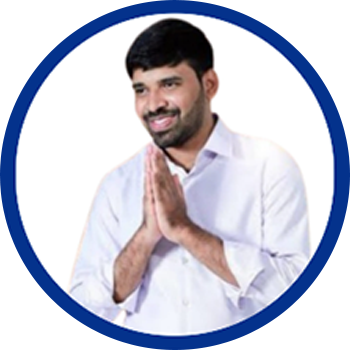
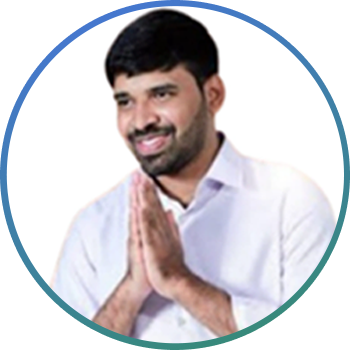
login ui changes, charts

diff --git a/src/pages/LoginPage.js b/src/pages/LoginPage.js
@@ -1,6 +1,6 @@
 import { styled } from "@mui/material/styles";
 import { makeStyles } from "@mui/styles";
-import { Link, Container, Typography, Divider, Box, Button, Card, Grid } from "@mui/material";
+import { Link, Container, Typography, Divider, Box, Button, Card, Grid, Stack } from "@mui/material";
 import { LoginForm } from "../sections/auth/login";
 import Page from "../components/Page";
 import { PUBLIC_URL } from "../constants";
@@ -17,12 +17,12 @@ const StyledContent = styled("div")(({ theme }) => ({
   display: "flex",
   justifyContent: "center",
   flexDirection: "column",
-  padding: theme.spacing(6, 6),
+  padding: theme.spacing(6, 1),
   [theme.breakpoints.up("md")]: {
     padding: theme.spacing(3, 9),
   },
   [theme.breakpoints.up("lg")]: {
-    padding: theme.spacing(6, 9),
+    padding: theme.spacing(6, 6),
   },
   [theme.breakpoints.up("xl")]: {
     padding: theme.spacing(6, 16),
@@ -61,47 +61,47 @@ const LoginPage = () => {
           <Card className={classes.subContainer} sx={{ p: { xs: 2, sm: 3, md: 4, xl: 5 } }}>
             <Grid container spacing={2} sx={{ alignItems: "center" }}>
               {isDesktop && (
-                <Grid item md={12} lg={2.5}>
-                  <Box component="img" src={PUBLIC_URL + "/static/images/map.png"} sx={{ width: "100%" }} />
+                <Grid item md={12} lg={3} sx={{ display: "flex", flexDirection: "column", alignItems: "center" }}>
+                  <Box component="img" src={PUBLIC_URL + "/static/images/map.png"} sx={{ width: "100%", maxWidth: 400 }} />
 
-                  <Typography variant="h5" sx={{ mt: 3, textAlign: "center" }}>
+                  <Typography variant="body2" fontWeight="bold" sx={{ mt: 3, textAlign: "center" }}>
                     CHANDRAGIRI CONSTITUENCY
                   </Typography>
                 </Grid>
               )}
 
               {isDesktop && (
-                <Grid item md={12} lg={3.5}>
-                  <Box component="img" src={PUBLIC_URL + "/static/images/mohith.png"} sx={{ width: "100%" }} />
+                <Grid item md={12} lg={3} sx={{ display: "flex", flexDirection: "column", alignItems: "center" }}>
+                  <Box component="img" src={PUBLIC_URL + "/static/images/mohith.png"} sx={{ width: "100%", maxWidth: 400 }} />
 
-                  <Typography variant="h5" sx={{ mt: 3, textAlign: "center" }}>
+                  <Typography variant="body2" fontWeight="bold" sx={{ mt: 3, textAlign: "center" }}>
                     CHEVIREDDY MOHITH REDDY
                   </Typography>
 
-                  <Typography variant="subtitle2" sx={{ textAlign: "center" }}>
+                  <Typography variant="body2" sx={{ textAlign: "center", fontSize: 10 }}>
                     (TUDA CHAIRMAN & TTD BOARD MEMBER)
                   </Typography>
                 </Grid>
               )}
 
               <Grid item xs={12} md={12} lg={6}>
-                <Box sx={{ pb: 2, display: "flex", justifyContent: "end" }}>
-                  <Box className={classes.linearAvatar} component="img" src={PUBLIC_URL + "/static/images/crbr.jpg"} sx={{ width: 100, height: 100, mr: 2 }} />
+                <Stack direction="row" spacing={1} sx={{ pb: 2, justifyContent: "end" }}>
+                  <Box component="img" src={PUBLIC_URL + "/static/images/imgs-1.png"} sx={{ width: 80, height: 80 }} />
 
-                  <Box className={classes.linearAvatar} component="img" src={PUBLIC_URL + "/static/images/jagan.jpg"} sx={{ width: 100, height: 100 }} />
-                </Box>
+                  <Box component="img" src={PUBLIC_URL + "/static/images/imgs-2.png"} sx={{ width: 80, height: 80 }} />
 
-                <Container maxWidth="sm">
-                  <Card className={classes.card} elevation={24} sx={{ p: { xs: 2, sm: 3, md: 4, xl: 5 } }}>
-                    <Box sx={{ pb: 1, display: "flex", justifyContent: "center" }}>
+                  <Box component="img" src={PUBLIC_URL + "/static/images/imgs-3.png"} sx={{ width: 80, height: 80 }} />
+                </Stack>
+
+                <Container maxWidth="xs" disableGutters>
+                  <Card className={classes.card} sx={{ p: { xs: 2, sm: 3, md: 4 } }}>
+                    <Box sx={{ display: "flex", justifyContent: "center" }}>
                       <Box component="img" src={PUBLIC_URL + "/static/assets/users.png"} sx={{ width: 80, height: 80 }} />
                     </Box>
 
-                    <Typography variant="h4" gutterBottom>
-                      Login
-                    </Typography>
+                    <Typography variant="h4">Login</Typography>
 
-                    <Typography sx={{ color: "text.secondary", mb: 5 }}>Enter your credentials to continue</Typography>
+                    <Typography sx={{ color: "text.secondary", mb: 4 }}>Enter your credentials to continue</Typography>
 
                     <LoginForm />
                   </Card>

diff --git a/src/pages/DashboardPage.js b/src/pages/DashboardPage.js
@@ -1,4 +1,5 @@
 import { useEffect, useState } from "react";
+import { useTheme } from "@mui/material/styles";
 import { Grid, Container, Typography, Box, TextField, Card } from "@mui/material";
 import Page from "../components/Page";
 import { connect } from "react-redux";
@@ -7,6 +8,8 @@ import { PieChartWidget } from "../sections/dashboard";
 import BarChartWidget from "../sections/dashboard/BarChartWidget";
 
 const DashboardApp = ({ dashboard }) => {
+  const theme = useTheme();
+
   return (
     <Page title="Dashboard">
       <Container maxWidth="xl">
@@ -55,10 +58,11 @@ const DashboardApp = ({ dashboard }) => {
             <PieChartWidget
               title="Total Voters"
               chartData={[
-                { label: "Male", value: 4344 },
+                { label: "Male", value: 5428 },
                 { label: "Female", value: 5435 },
-                { label: "Transgender", value: 1443 },
+                { label: "Transgender", value: 895 },
               ]}
+              chartColors={[theme.palette.success.main, theme.palette.primary.main, theme.palette.error.main]}
             />
           </Grid>
 
@@ -73,6 +77,7 @@ const DashboardApp = ({ dashboard }) => {
                 { label: "BJP", value: 1443 },
                 { label: "CONGRESS", value: 1443 },
               ]}
+              chartColors={[theme.palette.success.main, theme.palette.primary.main, theme.palette.warning.main, theme.palette.error.main, "#f78000", theme.palette.info.main]}
             />
           </Grid>
 
@@ -84,6 +89,7 @@ const DashboardApp = ({ dashboard }) => {
                 { label: "Not Started", value: 2542 },
                 { label: "Completed", value: 1443 },
               ]}
+              chartColors={[theme.palette.success.main, theme.palette.primary.main, theme.palette.info.main]}
             />
           </Grid>
 
@@ -98,6 +104,7 @@ const DashboardApp = ({ dashboard }) => {
                 { label: "Resolved", value: 456 },
                 { label: "Cancel", value: 876 },
               ]}
+              chartColors={[theme.palette.success.main, theme.palette.primary.main, theme.palette.info.main, "#f78000", theme.palette.error.main]}
             />
           </Grid>
 
@@ -116,20 +123,22 @@ const DashboardApp = ({ dashboard }) => {
                   data: [7, 7, 5, 13, 7, 3],
                 },
               ]}
-            />{" "}
+              chartColors={[theme.palette.primary.main, theme.palette.success.main]}
+            />
           </Grid>
 
           <Grid item xs={12} md={6} lg={4}>
             <PieChartWidget
               title="Age Wise Voters"
               chartData={[
-                { label: "18-25", value: 4344 },
+                { label: "18-25", value: 9052 },
                 { label: "25-35", value: 5435 },
                 { label: "35-45", value: 2452 },
                 { label: "45-55", value: 1443 },
                 { label: "55-65", value: 2415 },
                 { label: "65+", value: 1443 },
               ]}
+              chartColors={[theme.palette.primary.main, theme.palette.success.main, theme.palette.warning.main, theme.palette.error.main, "#f78000", theme.palette.info.main]}
             />
           </Grid>
 
@@ -141,6 +150,7 @@ const DashboardApp = ({ dashboard }) => {
                 { label: "Pending", value: 2542 },
                 { label: "Resolved", value: 3698 },
               ]}
+              chartColors={[theme.palette.primary.main, theme.palette.success.main, theme.palette.info.main]}
             />
           </Grid>
 
@@ -151,6 +161,7 @@ const DashboardApp = ({ dashboard }) => {
                 { label: "Residental", value: 9582 },
                 { label: "Non Residental", value: 2542 },
               ]}
+              chartColors={[theme.palette.success.main, theme.palette.primary.main]}
             />
           </Grid>
         </Grid>

diff --git a/src/sections/auth/login/LoginForm.js b/src/sections/auth/login/LoginForm.js
@@ -3,7 +3,7 @@ import { useState } from "react";
 import { Link, useNavigate } from "react-router-dom";
 import { useForm } from "react-hook-form";
 import { yupResolver } from "@hookform/resolvers/yup";
-import { Stack, IconButton, InputAdornment, TextField, Typography } from "@mui/material";
+import { Stack, IconButton, InputAdornment, TextField, Typography, Box } from "@mui/material";
 import { LoadingButton } from "@mui/lab";
 import Iconify from "../../../components/Iconify";
 import { FormProvider, RHFTextField } from "../../../components/hook-form";
@@ -62,12 +62,12 @@ const LoginForm = ({ showAlert, authSuccess }) => {
           }}
         />
 
-        <img className="captcha-image" src="https://miro.medium.com/v2/resize:fit:1024/0*obnHri9w__4Cmhbj.jpg" alt="captcha" />
+        <Box component="img" src="https://miro.medium.com/v2/resize:fit:1024/0*obnHri9w__4Cmhbj.jpg" sx={{ width: 150 }} />
 
         <RHFTextField name="captcha" label="Enter Captcha" />
       </Stack>
 
-      <Stack direction="row" alignItems="center" justifyContent="end" sx={{ my: 2 }}>
+      <Stack direction="row" alignItems="center" justifyContent="end" sx={{ my: 1 }}>
         <Link to="/forget-password" variant="subtitle2" underline="hover">
           Forgot password?
         </Link>

diff --git a/src/pages/Page404.js b/src/pages/Page404.js
@@ -27,25 +27,11 @@ export default function Page404() {
             Sorry, page not found!
           </Typography>
 
-          <Typography sx={{ color: "text.secondary" }}>
-            Sorry, we couldn’t find the page you’re looking for. Perhaps you’ve
-            mistyped the URL? Be sure to check your spelling.
-          </Typography>
+          <Typography sx={{ color: "text.secondary" }}>Sorry, we couldn’t find the page you’re looking for. Perhaps you’ve mistyped the URL? Be sure to check your spelling.</Typography>
 
-          <Box
-            component="img"
-            src={
-              PUBLIC_URL + "static/assets/illustrations/illustration_404.svg"
-            }
-            sx={{ height: 260, mx: "auto", my: { xs: 5, sm: 10 } }}
-          />
+          <Box component="img" src={PUBLIC_URL + "/static/assets/illustrations/illustration_404.svg"} sx={{ height: 260, mx: "auto", my: { xs: 5, sm: 10 } }} />
 
-          <Button
-            to="/"
-            size="large"
-            variant="contained"
-            component={RouterLink}
-          >
+          <Button to="/" size="large" variant="contained" component={RouterLink}>
             Go to Home
           </Button>
         </StyledContent>

diff --git a/src/pages/ForgetPage.js b/src/pages/ForgetPage.js
@@ -1,5 +1,5 @@
 import { styled } from "@mui/material/styles";
-import { Link, Container, Typography, Divider, Stack, Button, Card } from "@mui/material";
+import { Link, Container, Typography, Divider, Stack, Button, Card, Box } from "@mui/material";
 import Logo from "../components/logo";
 import { ForgetForm } from "../sections/auth/forget";
 import Page from "../components/Page";
@@ -34,6 +34,14 @@ export default function ForgetPage() {
             left: { xs: 16, sm: 24, md: 40 },
           }}
         />
+
+        <Stack direction="row" spacing={1} sx={{ pb: 2, justifyContent: "end", position: "fixed", top: { xs: 16, sm: 24, md: 40 }, right: { xs: 16, sm: 24, md: 40 } }}>
+          <Box component="img" src={PUBLIC_URL + "/static/images/imgs-1.png"} sx={{ width: 60, height: 60 }} />
+
+          <Box component="img" src={PUBLIC_URL + "/static/images/imgs-2.png"} sx={{ width: 60, height: 60 }} />
+
+          <Box component="img" src={PUBLIC_URL + "/static/images/imgs-3.png"} sx={{ width: 60, height: 60 }} />
+        </Stack>
 
         <Container maxWidth="sm">
           <StyledContent>

diff --git a/src/pages/ResetPage.js b/src/pages/ResetPage.js
@@ -1,5 +1,5 @@
 import { styled } from "@mui/material/styles";
-import { Link, Container, Typography, Divider, Stack, Button, Card } from "@mui/material";
+import { Link, Container, Typography, Divider, Stack, Button, Card, Box } from "@mui/material";
 import Logo from "../components/logo";
 import { ResetForm } from "../sections/auth/forget";
 import Page from "../components/Page";
@@ -34,6 +34,14 @@ export default function ResetPage() {
             left: { xs: 16, sm: 24, md: 40 },
           }}
         />
+
+        <Stack direction="row" spacing={1} sx={{ pb: 2, justifyContent: "end", position: "fixed", top: { xs: 16, sm: 24, md: 40 }, right: { xs: 16, sm: 24, md: 40 } }}>
+          <Box component="img" src={PUBLIC_URL + "/static/images/imgs-1.png"} sx={{ width: 60, height: 60 }} />
+
+          <Box component="img" src={PUBLIC_URL + "/static/images/imgs-2.png"} sx={{ width: 60, height: 60 }} />
+
+          <Box component="img" src={PUBLIC_URL + "/static/images/imgs-3.png"} sx={{ width: 60, height: 60 }} />
+        </Stack>
 
         <Container maxWidth="sm">
           <StyledContent>

diff --git a/src/sections/dashboard/BarChartWidget.js b/src/sections/dashboard/BarChartWidget.js
@@ -3,8 +3,9 @@ import { Box, Card, CardHeader } from "@mui/material";
 import { fNumber } from "../../utils/formatNumber";
 import { useChart } from "../../components/chart";
 
-export default function BarChartWidget({ title, subheader, chartLabels, chartData, ...other }) {
+export default function BarChartWidget({ title, subheader, chartColors, chartLabels, chartData, ...other }) {
   const chartOptions = useChart({
+    colors: chartColors,
     chart: { stacked: true },
     plotOptions: {
       bar: {
@@ -18,6 +19,12 @@ export default function BarChartWidget({ title, subheader, chartLabels, chartDat
     },
     xaxis: {
       categories: chartLabels,
+      labels: {
+        style: {
+          colors: "#000",
+          fontWeight: 600,
+        },
+      },
     },
   });
 
